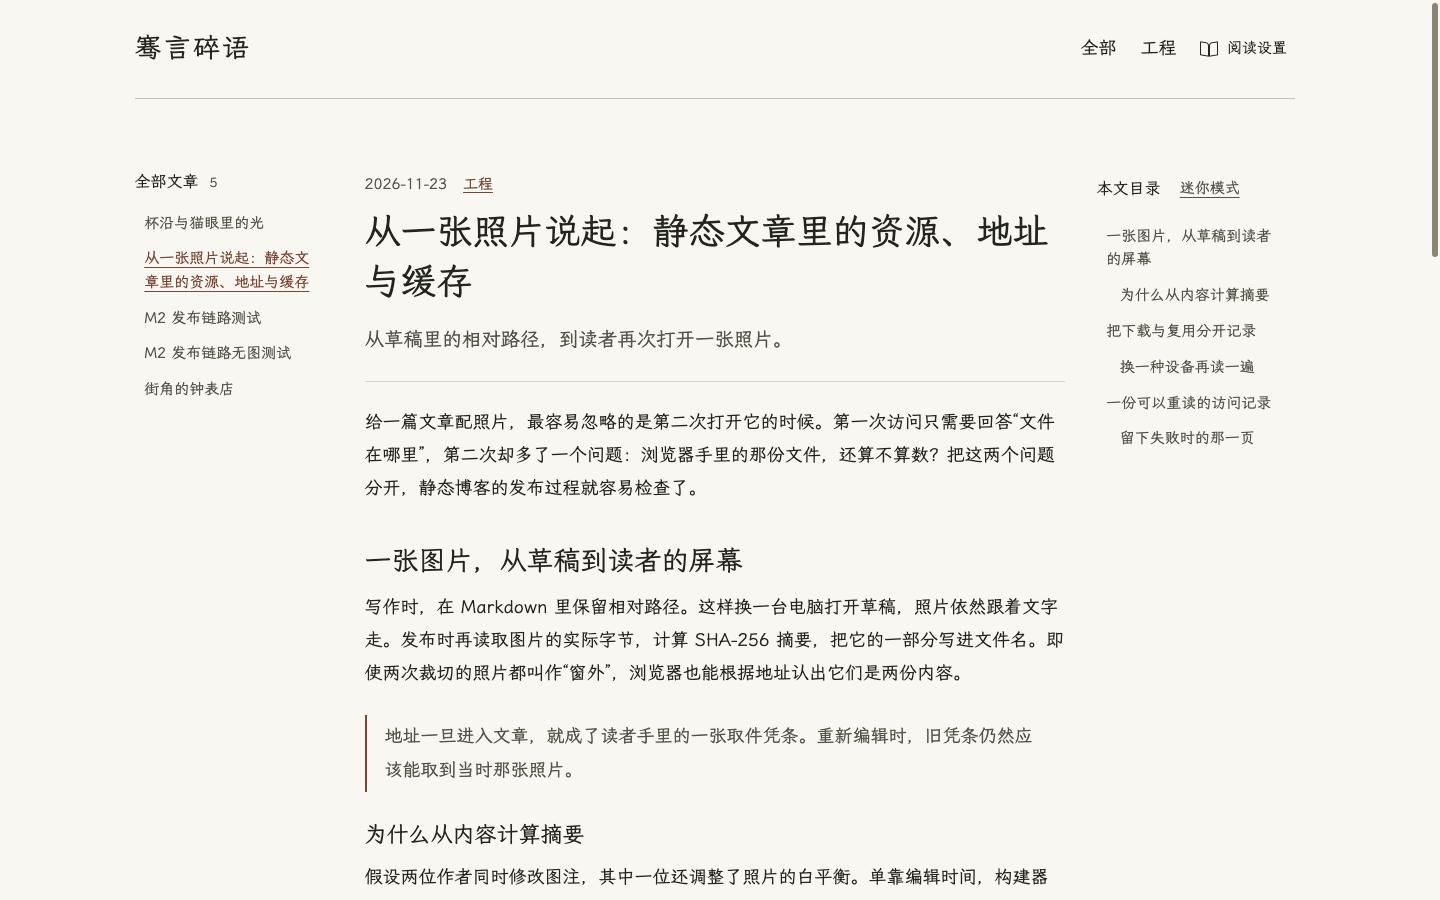
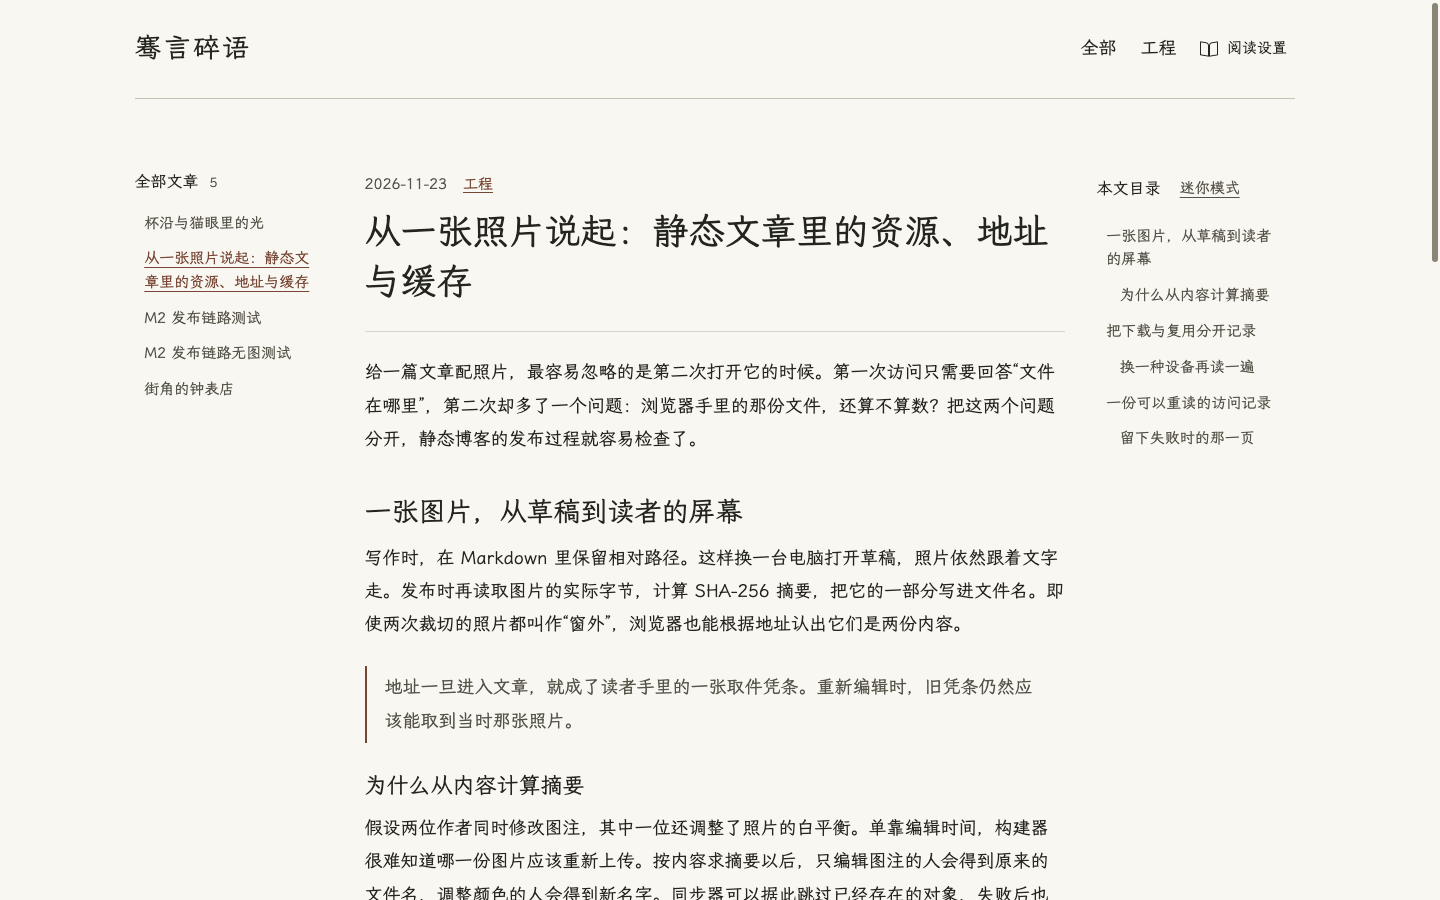
refactor: tuck tags into the article byline and open with the body

Changed region(s): [[0.25, 0.3422, 0.75, 1.0]]

diff --git a/docs/m4.2/README.md b/docs/m4.2/README.md
@@ -8,7 +8,7 @@
 
 字标只保留「骞言碎语」。页首基线标出站点导航的结束位置。跨年时用浅线分组，同一年内，文本列表在发布日期变化时沿篇目列画线，同日文章靠留白分开。页脚列出当年版权、站名、作者的 GitHub 个人主页、分类索引与 RSS。
 
-文章标题在列表、卡片和详情页均自然换行。详情页先列日期与可选分类，再排题名，直接落在页面纸色上，与正文左边缘对齐。摘要紧随题名，以次级墨色排成一句导语，字号略大于正文，桌面行宽最多 32em。标签用 15px 强调色小字另排一行，词间留白，空间不足时逐项换行。篇首末尾的一道细线标出正文阅读区的起点。
+文章标题在列表、卡片和详情页均自然换行。详情页以一行小字排出日期、可选分类和标签。有标签时，用一个线描标签图标引出整组词，字号和墨色与日期一致。题名在下一行，与正文左边缘对齐。篇首末尾的一道细线标出正文阅读区的起点。摘要用于篇目列表、图文卡片、RSS 和网页元描述，进入文章后由作者的首段开篇。
 
 两侧导航用文字颜色与下划线提示当前项。完整目录跟踪 H2/H3，迷你模式显示正文进度，点刻度回到完整目录时会把当前章节移入视野。短表格填满正文宽度，超宽表格保留列宽，在可键盘聚焦的容器里横向浏览。表格、代码、目录和页面滚动条均采用细滑块与透明轨道。
 
@@ -19,7 +19,7 @@
 | 首页篇目 | [正式内容 · 1440 浅色](screenshots/published-1440-light.png) · [含样稿 · 1440 浅色](screenshots/list-1440-light.png) | [390 浅色](screenshots/list-390-light.png) |
 | 首图与默认占位图 | [1440 浅色](screenshots/cards-1440-light.png) · [1024 深色](screenshots/cards-1024-dark.png) | [375 深色](screenshots/cards-375-dark.png) |
 | 技术长标题与目录 | [1440 三栏](screenshots/tech-1440-light.png) · [1024 双栏](screenshots/tech-1024-light.png) · [768 单栏](screenshots/tech-768-dark.png) | [390 首屏](screenshots/tech-390-light.png) · [375 代码与表格](screenshots/tech-375-dark.png) |
-| 正式文章的摘要与标签 | [1440 浅色](screenshots/intro-1440-light.png) | [390 深色](screenshots/intro-390-dark.png) |
+| 正式文章的日期、分类与标签 | [1440 浅色](screenshots/intro-1440-light.png) | [390 深色](screenshots/intro-390-dark.png) |
 | 章节定位 | [1440 当前章节与全宽表格](screenshots/chapter-1440-light.png) · [页边进度](screenshots/mini-1440-light.png) | [390 横向目录](screenshots/chapter-390-light.png) · [迷你刻度](screenshots/mini-390-light.png) |
 | 连续阅读与图注 | [长篇随笔 · 1440 深色](screenshots/essay-1440-dark.png) | [生活图文 · 390 深色](screenshots/life-390-dark.png) |
 
@@ -75,4 +75,4 @@ design-taste-frontend 的候选中选用了 The split stage（seed 2000682799）
 
 同一组五篇文章覆盖三个发布日期。首页有一条页首基线，篇目列有两处日期分隔。1440px 下第一篇标题距视口顶部从约 326px 提前至 191px，390px 下从约 281px 提前至 195px。两次测量使用相同的文楷、样稿和列表视图。
 
-375px 技术稿的题名自然排成两行，390px 正式文章的摘要续行与首行文字对齐。两者的标题与正文起笔都距左侧 20px。横向目录及页边刻度的触感仍可在 iOS Safari 和 Android 实机复核。
+375px 技术稿的题名自然排成两行，390px 正式文章的日期、分类和两个标签在同一行。两者的标题与正文起笔都距左侧 20px。横向目录及页边刻度的触感仍可在 iOS Safari 和 Android 实机复核。
